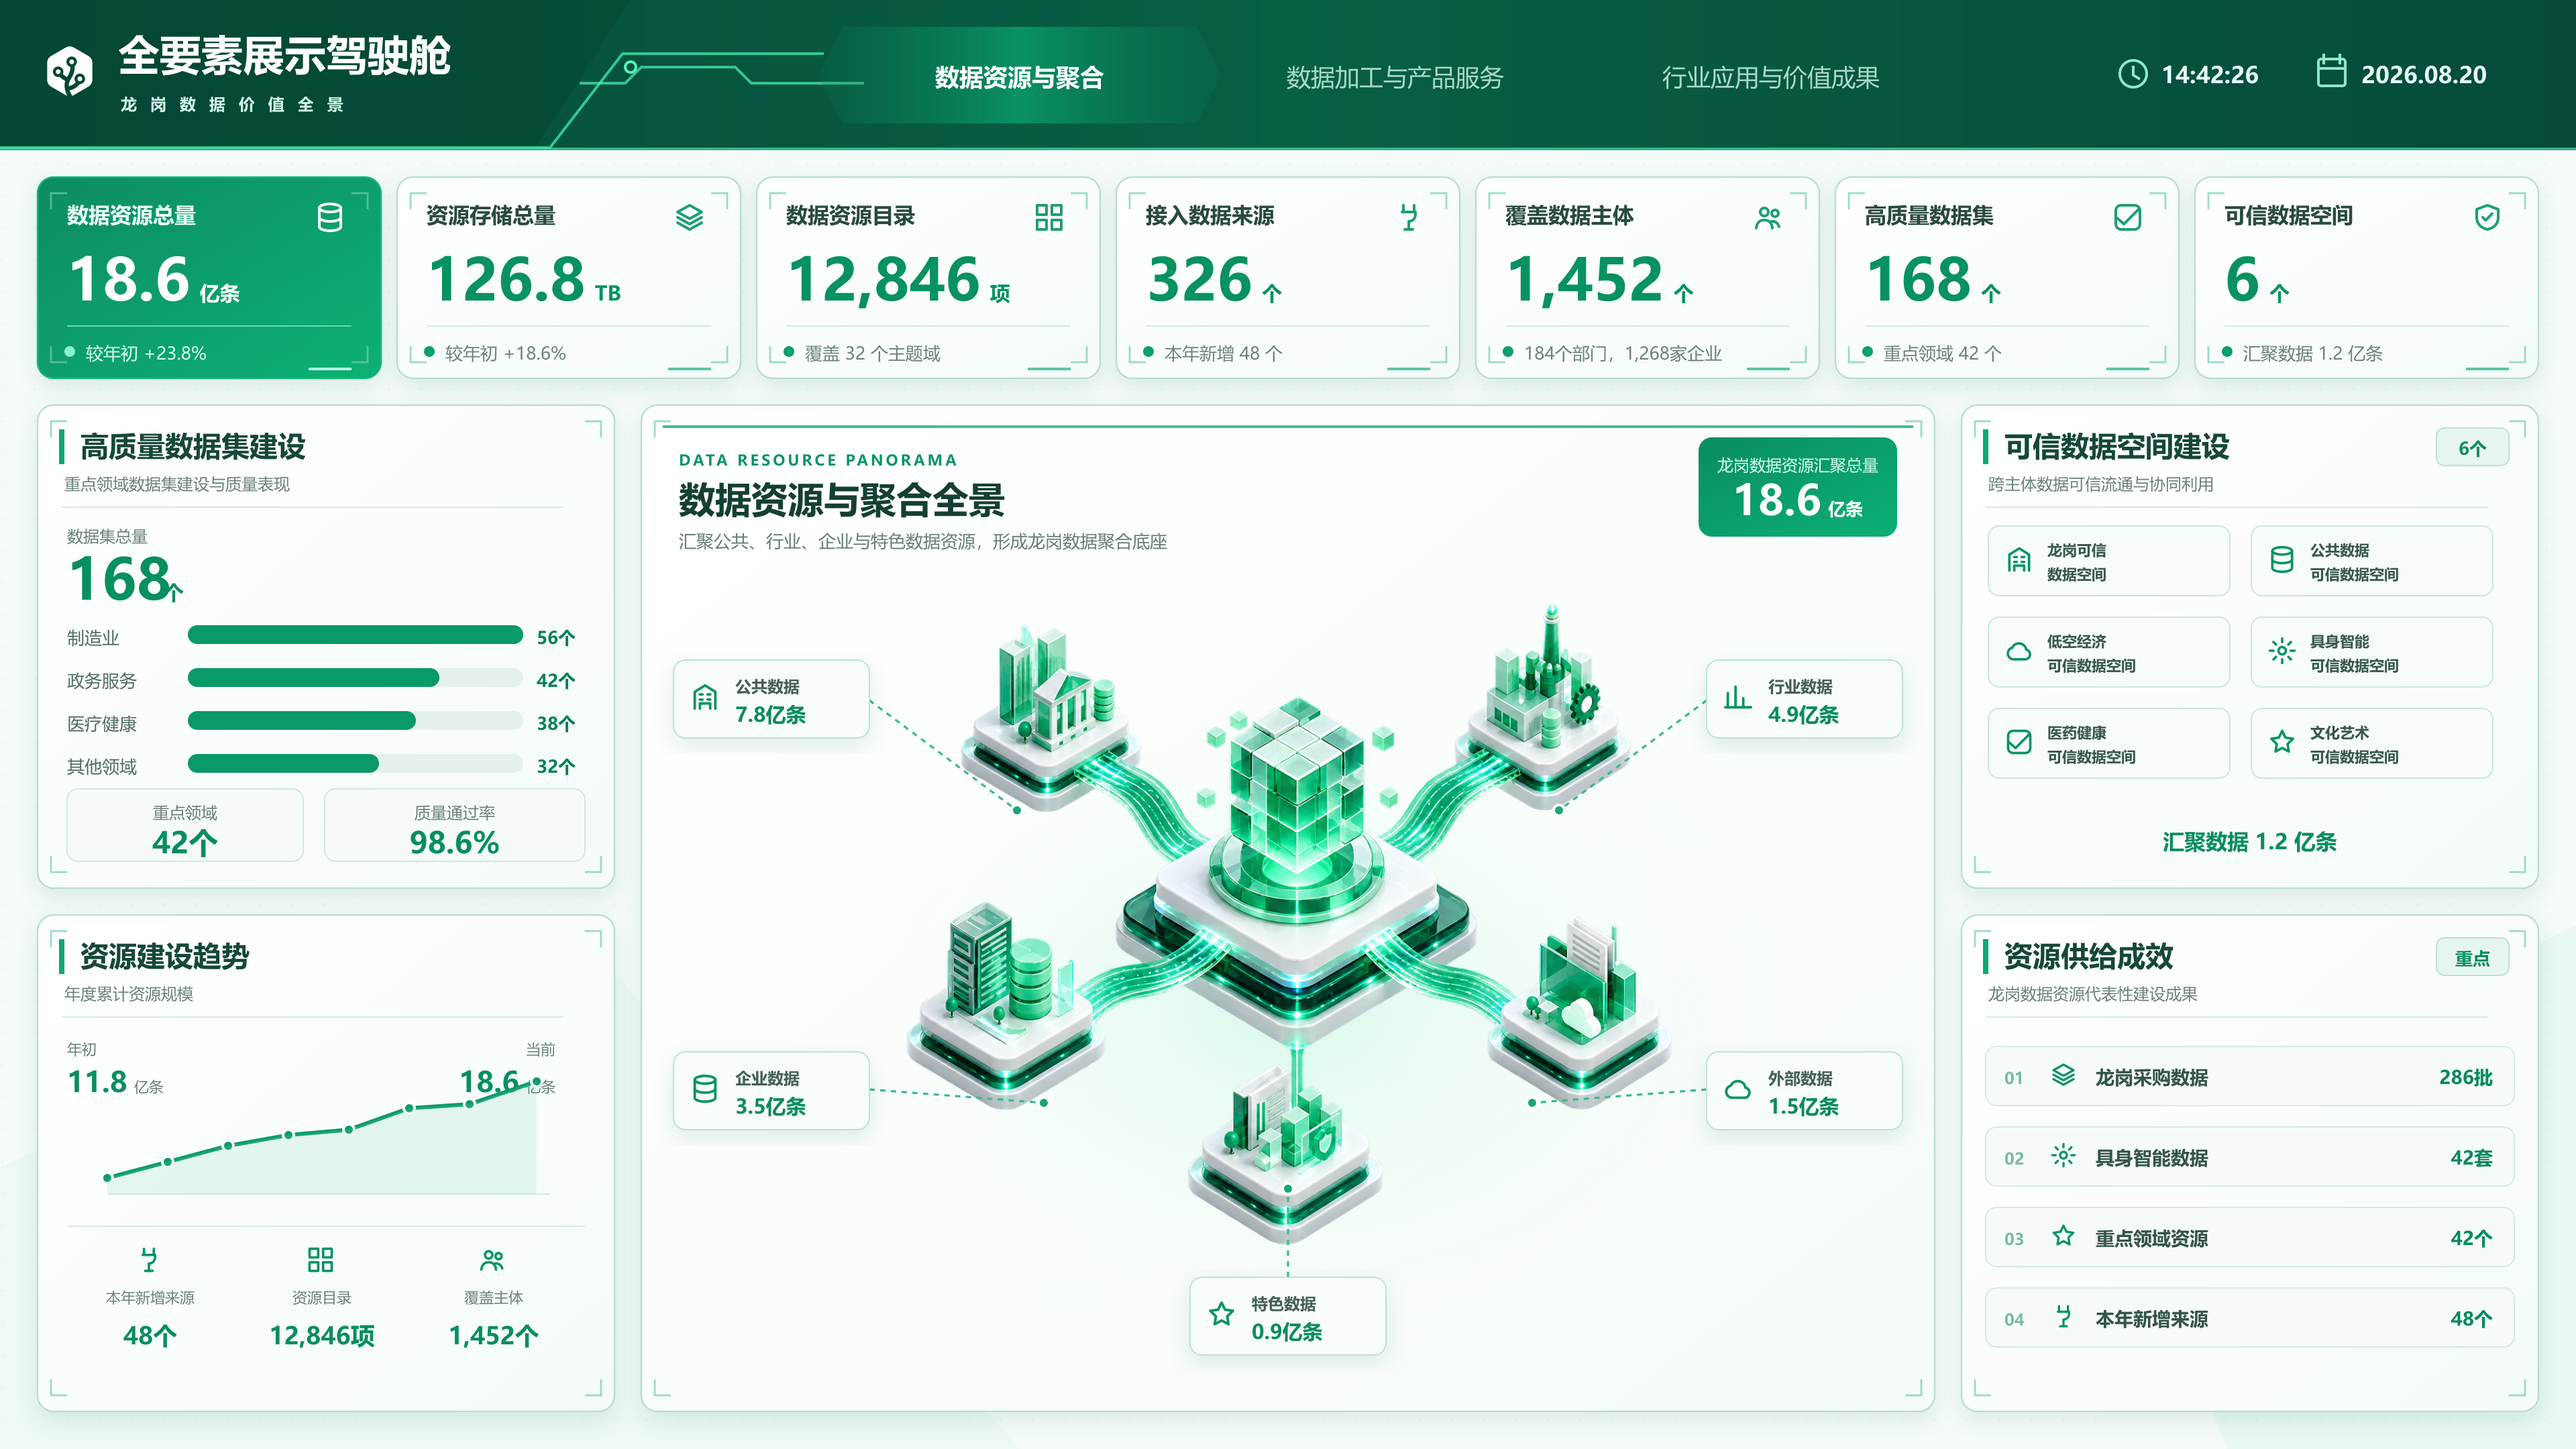
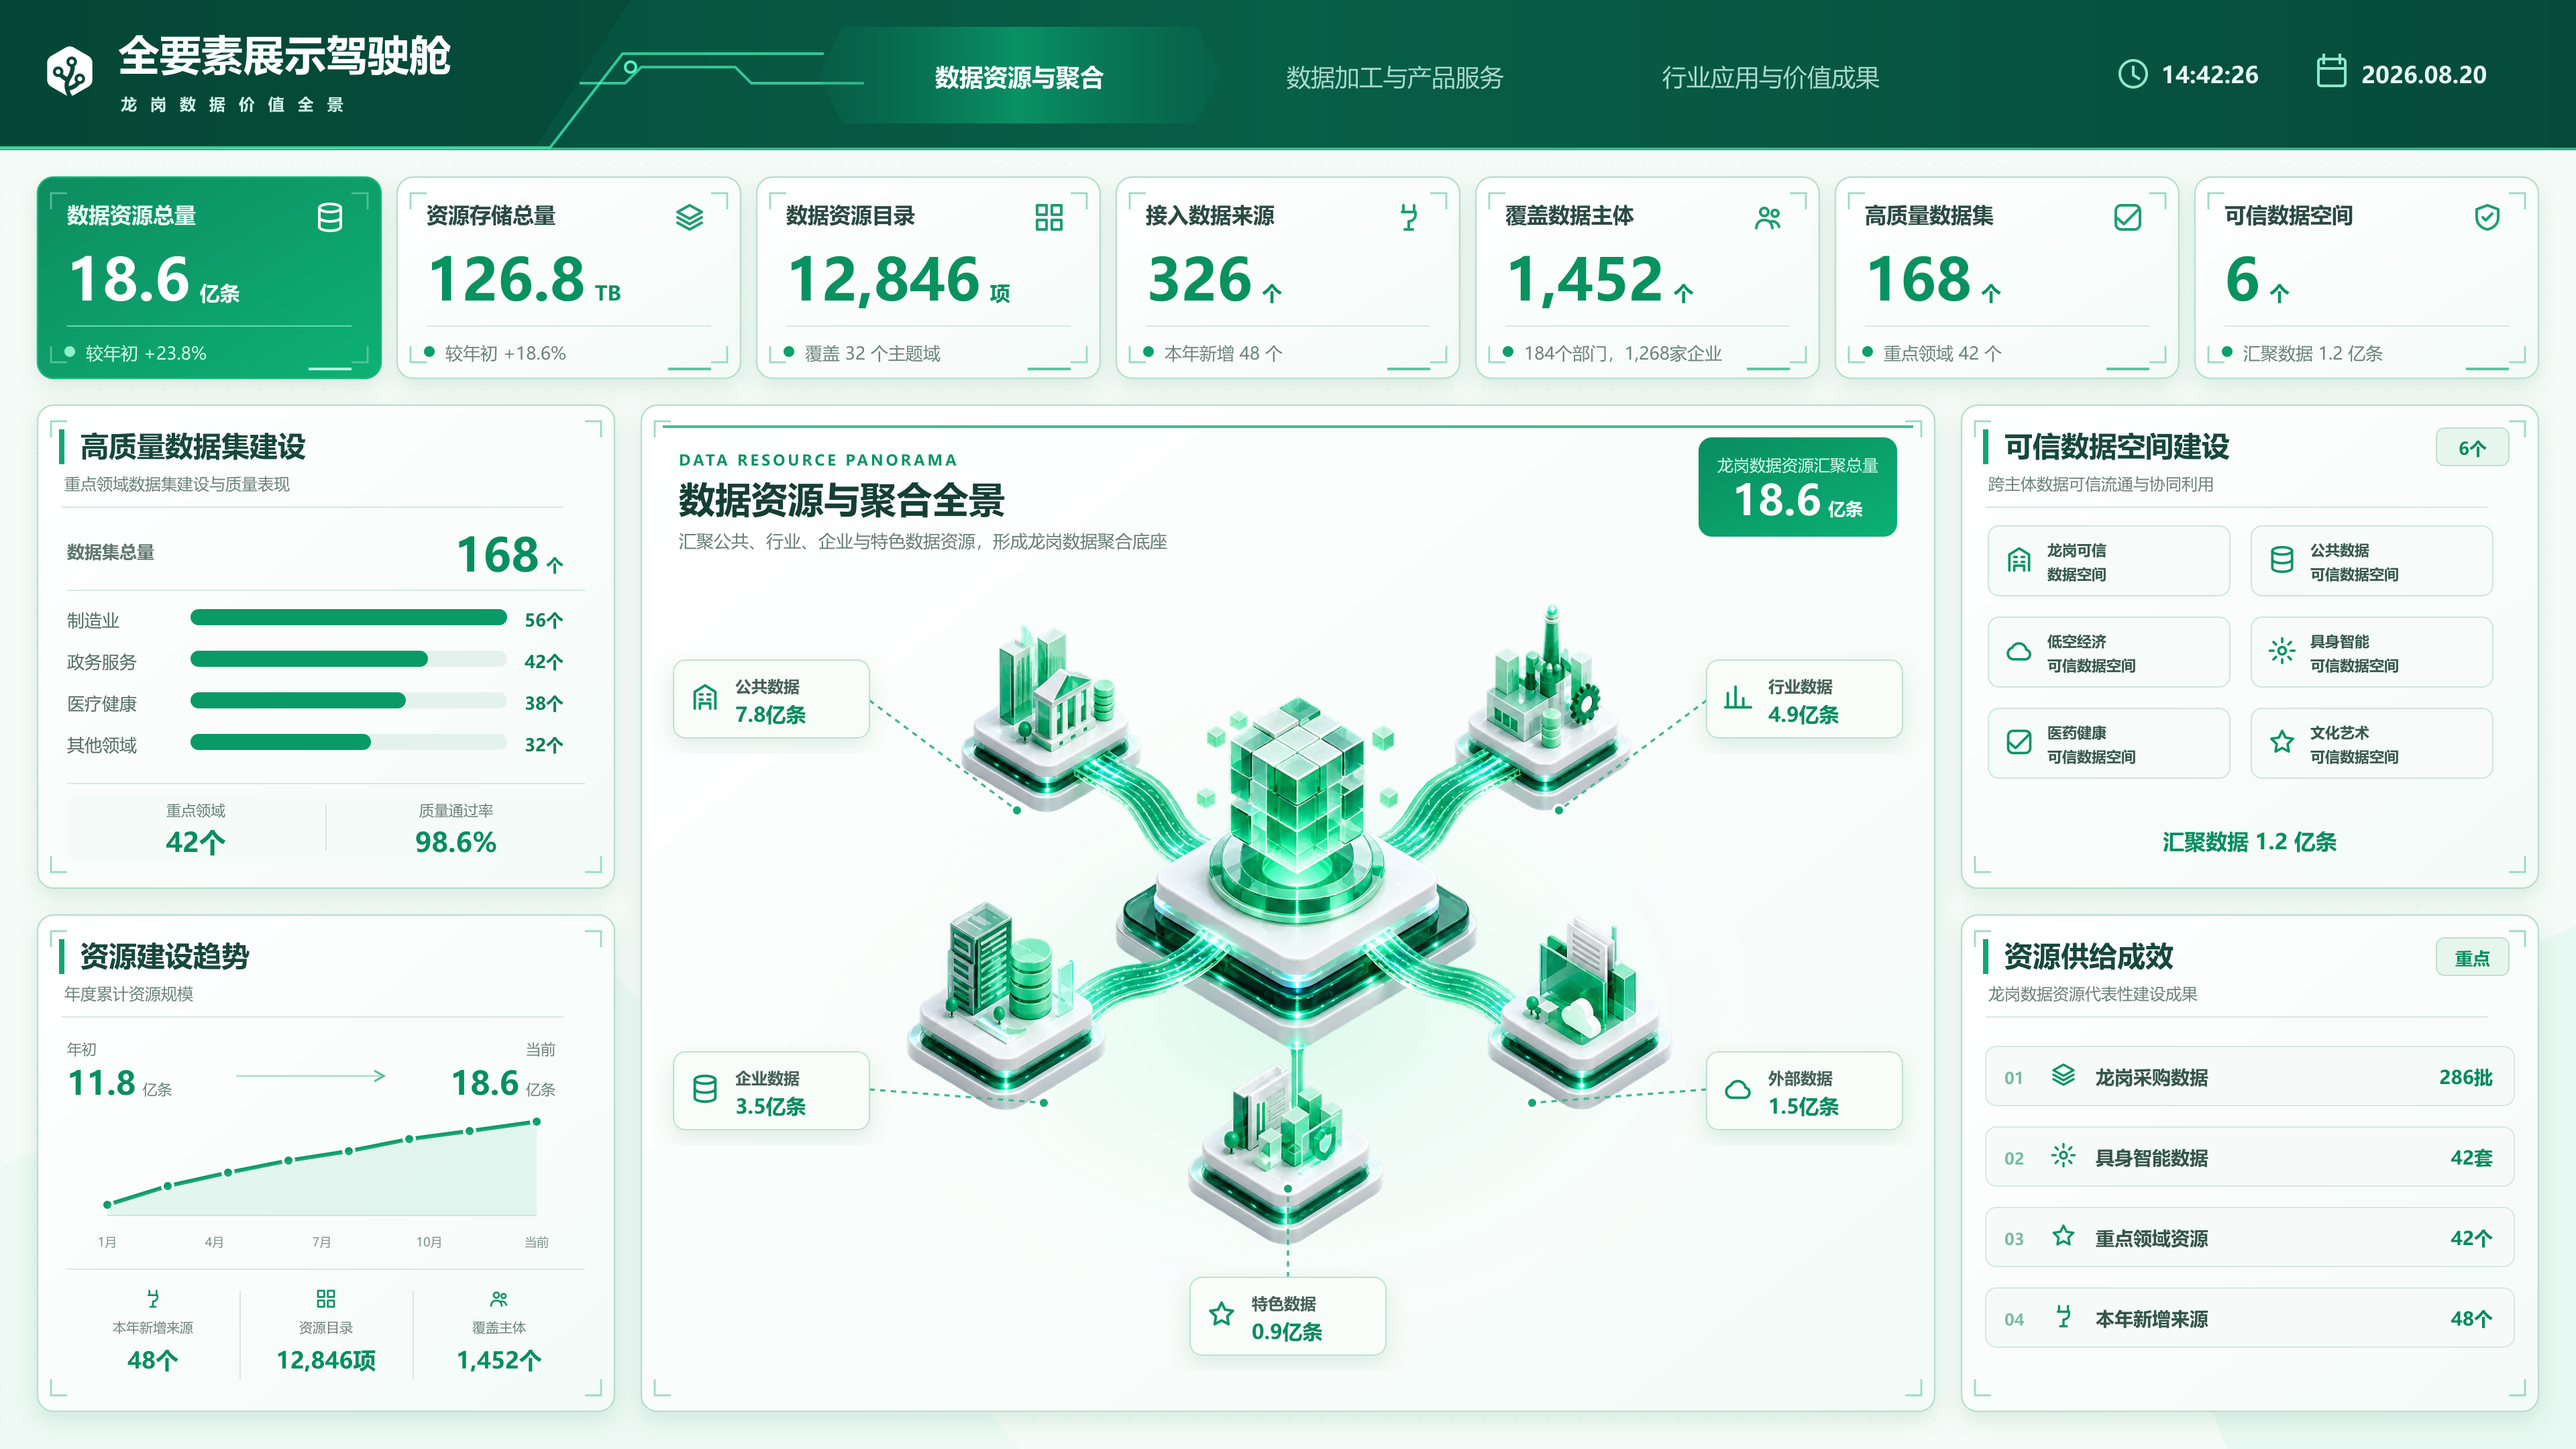
Update deployment

diff --git a/portal-placeholder.html b/portal-placeholder.html
@@ -155,9 +155,9 @@
                 'city-governance-zone': { primary: '数据交易', secondary: '特色专区', title: '城市治理专区' },
                 'medical-health-zone': { primary: '数据交易', secondary: '特色专区', title: '医疗健康专区' },
                 'embodied-intelligence-zone': { primary: '数据交易', secondary: '特色专区', title: '具身智能专区' },
-                'merchant-onboarding': { primary: '数据生态', secondary: '', title: '数商入驻' },
-                'ecosystem-cooperation': { primary: '数据生态', secondary: '', title: '生态合作' },
-                'industry-education': { primary: '数据生态', secondary: '', title: '产教融合' }
+                'merchant-onboarding': { primary: '数商生态', secondary: '', title: '数商入驻' },
+                'ecosystem-cooperation': { primary: '数商生态', secondary: '', title: '生态合作' },
+                'industry-education': { primary: '数商生态', secondary: '', title: '产教融合' }
             };
             var key = new URLSearchParams(window.location.search).get('page') || '';
             var page = pages[key] || { primary: '首页', secondary: '', title: '页面建设中' };

diff --git a/js/nav-bar.js b/js/nav-bar.js
@@ -236,7 +236,7 @@ class NavBar extends HTMLElement {
                         label: '创意工坊',
                         children: [
                             { id: 'factory-production-line', label: '数据工厂生产线', href: 'data-production-line.html' },
-                            { id: 'annotation-platform', label: '自有数据标注平台', href: 'data-factory.html' },
+                            { id: 'annotation-platform', label: '数据标注平台', href: 'data-factory.html' },
                             { id: 'operation-platform', label: '龙岗区公共数据授权运营平台', href: 'data-scenario.html' },
                             { id: 'development-tools', label: '开发工具', href: 'data-dev-platform.html' }
                         ]
@@ -245,7 +245,7 @@ class NavBar extends HTMLElement {
             },
             {
                 id: 'data-ecosystem',
-                label: '数据生态',
+                label: '数商生态',
                 children: [
                     {
                         id: 'space-connect',
